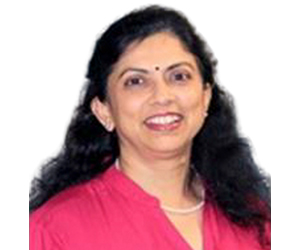
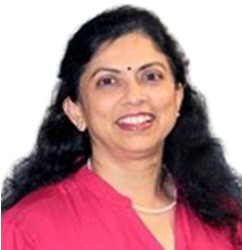
Changes in team page

diff --git a/teams.html b/teams.html
@@ -157,19 +157,21 @@
 
     <div class="container">
         <div class="row px-xl-5">
-            <div>
+            <div class="">
                 <h1 style="border-top: solid; width: 60px ; color:#00b3cc;"> </h1>
                 <h2>Our Inspiration</h2>
             </div>
 
 
             <div class="col-lg-3 col-md-12  col-sm-12">
+                <div class=" d-flex justify-content-sm-center flex-column align-items-center">
                 <a href="./dr-gk-ghose.html">
-                    <img class="ms-3 mt-4" src="./asset/img/our team/dr-gk-ghose.jpg" alt="" width="80%">
+                    <img class=" teamimage mt-4" src="./asset/img/our team/dr-gk-ghose.jpg" alt="" >
                 </a>
-                <a href="./dr-gk-ghose.html " class="text-decoration-none">
-                    <h5 class="teammember1 mx-5 ">Late Dr. G.K. Ghose</h5>
+                <a href="./dr-gk-ghose.html " class="text-decoration-none team-name">
+                    <h5 class=" teammember1 ">Late Dr. G.K. Ghose</h5>
                 </a>
+                </div>
             </div>
 
             <div class="row mt-5">
@@ -179,31 +181,37 @@
                 </div>
 
 
-                <div class="col-lg-3 col-md-12 col-sm-12">
+                <div class="col-lg-3 col-md-12 col-sm-12 mx-md-3">
+                    <div class=" d-flex justify-content-md-center flex-column align-items-center">
                     <a href="./dr-samita.html">
-                        <img class="teamimage mt-4" src="./asset/img/our team/dr-samita.jpg" alt="">
+                        <img class="teamimage  mt-4" src="./asset/img/our team/dr-samita.jpg" alt="">
                     </a>
                     <a href="./dr-samita.html" class="text-decoration-none">
-                        <h5 class="teammember1 mx-5">Dr. Smita Tondon</h5>
+                        <h5 class="teammember1 team2">Dr. Smita Tondon</h5>
                     </a>
                 </div>
+                </div>
 
-                <div class="col-lg-3 col-md-12  col-sm-12">
+                <div class="col-lg-3 col-md-12  col-sm-12 mx-md-3">
+                    <div class=" d-flex justify-content-center flex-column align-items-center">
                     <a href="./dr-sharma.html">
-                        <img class="teamimage mt-4" src="./asset/img/our team/dr-sharma.jpg" alt="">
+                        <img class=" teamimage mt-4" src="./asset/img/our team/dr-sharma.jpg" alt="">
                     </a>
                     <a href="./dr-sharma.html" class="text-decoration-none">
-                        <h5 class="teammember1 mx-5">Dr. A. K Sharma</h5>
+                        <h5 class="teammember1 team2">Dr. A. K Sharma</h5>
                     </a>
                 </div>
+                </div>
 
-                <div class="col-lg-3 col-md-12  col-sm-12">
+                <div class="col-lg-3 col-md-12  col-sm-12 mx-md-3">
+                    <div class=" d-flex justify-content-center flex-column align-items-center">
                     <a href="./dr-deepika.html">
-                        <img class="teamimage mt-4" src="./asset/img/our team/dr-deepika.jpg" alt="">
+                        <img class=" teamimage  mt-4" src="./asset/img/our team/dr-deepika.jpg" alt="">
                     </a>
                     <a href="./dr-deepika.html" class="text-decoration-none">
-                        <h5 class="teammember1 mx-5">Dr. Deepika Wali</h5>
+                        <h5 class="teammember1 team2 ">Dr. Deepika Wali</h5>
                     </a>
+                </div>
                 </div>
             </div>
 
@@ -214,22 +222,26 @@
                 </div>
 
 
-                <div class="col-lg-3 col-md-12  col-sm-12">
+                <div class="col-lg-3 col-md-12  col-sm-12 mx-md-3">
+                    <div class=" d-flex justify-content-center flex-column align-items-center">
                     <a href="./niranjan-prasad.html">
-                        <img class="teamimage mt-4" src="./asset/img/our team/niranjan-320x382.jpg" alt="">
+                        <img class="  teamimage mt-4" src="./asset/img/our team/niranjan-320x382.jpg" alt="">
                     </a>
                     <a href="./niranjan-prasad.html" class="text-decoration-none">
-                        <h5 class="teammember1 mx-5">Niranjan Prasad</h5>
+                        <h5 class="teammember1">Niranjan Prasad</h5>
                     </a>
                 </div>
+                </div>
 
-                <div class="col-lg-3 col-md-12  col-sm-12">
+                <div class="col-lg-3 col-md-12  col-sm-12 mx-md-3">
+                    <div class=" d-flex justify-content-center flex-column align-items-center">
                     <a href="./gary-woodford.html">
-                        <img class=" mt-4" width="100%" height="75%" src="./asset/img/our team/garywoodford.jpeg" alt="">
+                        <img class=" teamimage  mt-4" width="100%" height="75%" src="./asset/img/our team/garywoodford.jpeg" alt="">
                     </a>
                     <a href="./gary-woodford.html" class="text-decoration-none">
-                        <h5 class="teammember1 mx-5">Gary Woodford</h5>
+                        <h5 class="teammember1">Gary Woodford</h5>
                     </a>
+                    </div>
                 </div>
 
                 <!-- <div class="col-lg-3 col-md-12  col-sm-12">
@@ -241,30 +253,36 @@
 
             <div class="row">
 
-                <div class="col-lg-3 col-md-12  col-sm-12">
+                <div class="col-lg-3 col-md-12  col-sm-12 mx-md-3">
+                    <div class=" d-flex justify-content-center flex-column align-items-center">
                     <a href="./jyoti-dhiman.html">
-                        <img class="teamimage mt-4" src="./asset/img/our team/jyoti-320x382.jpg" alt="">
+                        <img class=" teamimage mt-4" src="./asset/img/our team/jyoti-320x382.jpg" alt="">
                     </a>
                     <a href="./jyoti-dhiman.html" class="text-decoration-none">
-                        <h5 class="teammember1 mx-5">Jyoti Dhiman</h5>
+                        <h5 class="teammember1 ">Jyoti Dhiman</h5>
                     </a>
                 </div>
-                <div class="col-lg-3 col-md-12  col-sm-12">
+                </div>
+                <div class="col-lg-3 col-md-12  col-sm-12 mx-md-3">
+                    <div class=" d-flex justify-content-center flex-column align-items-center">
                     <a href="./atishya-ghosh.html">
-                        <img class="teamimage mt-4" src="./asset/img/our team/athisya-320x382.jpg" alt="">
+                        <img class=" teamimage mt-4" src="./asset/img/our team/athisya-320x382.jpg" alt="">
                     </a>
                     <a href="./atishya-ghosh.html" class="text-decoration-none">
-                        <h5 class="teammember1 mx-5">Atishya Ghosh</h5>
+                        <h5 class="teammember1">Atishya Ghosh</h5>
                     </a>
+                    </div>
                 </div>
 
-                <div class="col-lg-3 col-md-12  col-sm-12">
+                <div class="col-lg-3 col-md-12  col-sm-12 mx-md-3">
+                    <div class=" d-flex justify-content-center flex-column align-items-center">
                     <a href="./carrie-jonesmeyers.html">
-                        <img class=" mt-4" width="100%" height="83.5%" src="./asset/img/our team/carrie-jones.png" alt="">
+                        <img class=" teamimage mt-4"  src="./asset/img/our team/carrie-jones.png" alt="">
                     </a>
                     <a href="./carrie-jonesmeyers.html" class="text-decoration-none">
-                        <h5 class="teammember1 mx-5">Carrie Jones-Meyers</h5>
+                        <h5 class="teammember1">Carrie Jones-Meyers</h5>
                     </a>
+                </div>
                 </div>
             </div>
 

diff --git a/asset/CSS/Team.css b/asset/CSS/Team.css
@@ -206,19 +206,36 @@
  
  /* Team */
 .teamimage{
-    height: auto;
-    width: 100%;
+    height: 241px !important;
+    width: 231px !important;
 }
+.teamimage1{
+    height: 241px !important;
+    width: 277px !important;
+    right: 20px;
+    position: relative;
+}
+
 .teamimage:hover{
     opacity: 0.5;
 }
 
 .teammember1{
   color: black;
+  font-size: 18px !important;
+  text-align: center;
+  display: flex;
+  justify-content: center;
+  flex-direction: row;
+  margin: 10px;
 }
 .teammember1:hover{
         color: #00b3cc;;
 }
+/* .team2{
+    position: relative;
+    right: 20px;
+} */
 
 .Appointment{
     background-color: #00b3cc;
